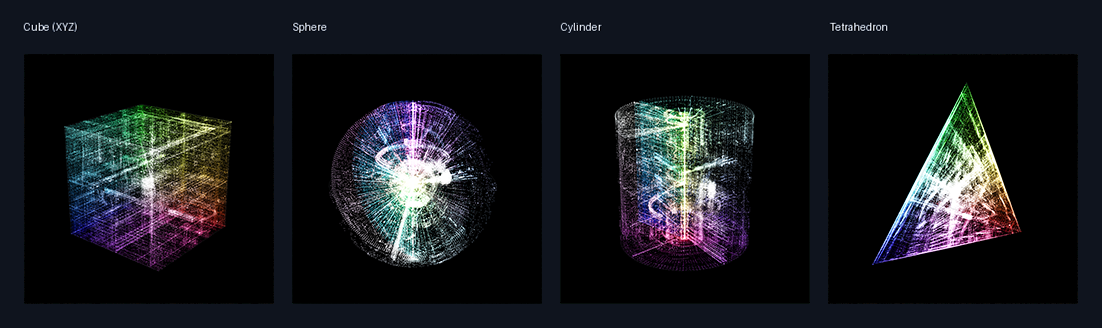
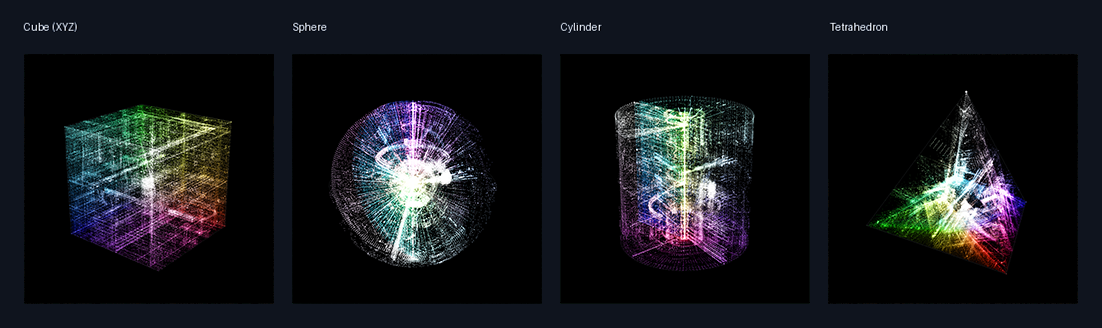
Render: rework tetrahedron rendering
Fix the centroid and make it symmetrical.

Changed region(s): [[0.7713, 0.2744, 0.9564, 0.8232]]

diff --git a/tests/cube_render_regression_tests.cpp b/tests/cube_render_regression_tests.cpp
@@ -1,10 +1,13 @@
 #include "cantordust/cube.h"
 #include "math/cube_lighting.h"
+#include "math/cube.h"
 
 #ifdef NDEBUG
     #undef NDEBUG
 #endif
 #include <cassert>
+#include <array>
+#include <cmath>
 #include <cstdint>
 #include <iostream>
 #include <vector>
@@ -90,8 +93,92 @@ static void Tests_ScratchFrameEquivalence()
     assert( reusedDepth.empty() );
 }
 
+static void Tests_CenteredRegularTetrahedron()
+{
+    constexpr float tolerance = 0.00002f;
+
+    // The origin is the inside center of the cloud, not a corner or base.
+    float x = 0.0f, y = 0.0f, z = 0.0f;
+    Math_CubeMapTetrahedron( x, y, z );
+    assert( x == 0.0f && y == 0.0f && z == 0.0f );
+
+    const auto& vertices = Math_CubeTetrahedronVertices();
+    const std::array< std::array< float, 3 >, 4 > cubeCorners = {{
+        {{ 1.0f, 1.0f, 1.0f }}, {{ 1.0f, -1.0f, -1.0f }},
+        {{ -1.0f, 1.0f, -1.0f }}, {{ -1.0f, -1.0f, 1.0f }}
+    }};
+
+    // Shared vertices must match the actual byte-cloud mapping.
+    for ( std::size_t i = 0; i < vertices.size(); ++i )
+    {
+        auto corner = cubeCorners[ i ];
+        Math_CubeMapTetrahedron( corner[ 0 ], corner[ 1 ], corner[ 2 ] );
+        for ( std::size_t axis = 0; axis < 3; ++axis )
+            assert( std::abs( corner[ axis ] - vertices[ i ][ axis ] ) < tolerance );
+    }
+
+    // Exactly one upright apex and three coplanar base vertices.
+    assert( std::abs( vertices[ 0 ][ 0 ] ) < tolerance );
+    assert( std::abs( vertices[ 0 ][ 1 ] - 1.0f ) < tolerance );
+    assert( std::abs( vertices[ 0 ][ 2 ] ) < tolerance );
+
+    for ( std::size_t i = 1; i < vertices.size(); ++i )
+        assert( std::abs( vertices[ i ][ 1 ] + 1.0f / 3.0f ) < tolerance );
+
+    for ( std::size_t axis = 0; axis < 3; ++axis )
+    {
+        float centroid = 0.0f;
+        for ( const auto& vertex : vertices )
+            centroid += vertex[ axis ];
+        assert( std::abs( centroid ) < tolerance );
+    }
+
+    constexpr float expectedEdgeSquared = 8.0f / 3.0f;
+    for ( std::size_t a = 0; a < vertices.size(); ++a )
+        for ( std::size_t b = a + 1; b < vertices.size(); ++b )
+        {
+            float edgeSquared = 0.0f;
+            for ( std::size_t axis = 0; axis < 3; ++axis )
+            {
+                const float delta = vertices[ a ][ axis ] - vertices[ b ][ axis ];
+                edgeSquared += delta * delta;
+            }
+            assert( std::abs( edgeSquared - expectedEdgeSquared ) < tolerance );
+        }
+
+    // Test the entire mapped volume, not just its boundary vertices.
+    // A regular tetrahedron with unit circumradius satisfies these planes.
+    for ( int ix = -8; ix <= 8; ++ix )
+        for ( int iy = -8; iy <= 8; ++iy )
+            for ( int iz = -8; iz <= 8; ++iz )
+            {
+                float px = ix / 8.0f;
+                float py = iy / 8.0f;
+                float pz = iz / 8.0f;
+                Math_CubeMapTetrahedron( px, py, pz );
+
+                for ( const auto& vertex : vertices )
+                {
+                    const float dot = px * vertex[ 0 ] +
+                        py * vertex[ 1 ] + pz * vertex[ 2 ];
+                    assert( dot >= -1.0f / 3.0f - tolerance );
+                }
+            }
+
+    // A cloud point at the origin must remain at the viewport center.
+    CubeCloud_s centered;
+    centered.points.push_back( { 0.0f, 0.0f, 0.0f,
+        14u, 177u, 0xFFE2B58Fu, 0x32u } );
+    CubeRenderOptions_s options;
+    options.geometry = CCG_TETRAHEDRON;
+    const Image_s frame = Cube_Render( centered, {},
+        240, 220, CDP_REFERENCE, options );
+    assert( frame.SourceAt( 120, 110 ) == 177u );
+}
+
 int main()
 {
+    Tests_CenteredRegularTetrahedron();
     Tests_MathAxisColors();
     Tests_ScratchFrameEquivalence();
     std::cout << "Cube renderer equivalence tests passed.\n";

diff --git a/tests/universe_tests.cpp b/tests/universe_tests.cpp
@@ -1586,6 +1586,56 @@ static void Tests_OrganicAdaptiveLayout()
     }
 }
 
+static void Tests_RegularGlobalTetrahedron()
+{
+    const auto& vertices = Math_CubeTetrahedronVertices();
+    constexpr float tolerance = 0.00002f;
+    constexpr float edgeSquared = 8.0f / 3.0f;
+
+    // Globals share the upright, unit-radius tetrahedron used by Byte Cloud.
+    for ( std::size_t axis = 0; axis < 3; ++axis )
+    {
+        float center = 0.0f;
+        for ( const auto& vertex : vertices )
+            center += vertex[ axis ];
+        assert( std::abs( center ) < tolerance );
+    }
+
+    for ( std::size_t a = 0; a < vertices.size(); ++a )
+    {
+        for ( std::size_t b = a + 1; b < vertices.size(); ++b )
+        {
+            float distanceSquared = 0.0f;
+            for ( std::size_t axis = 0; axis < 3; ++axis )
+            {
+                const float d = vertices[ a ][ axis ] - vertices[ b ][ axis ];
+                distanceSquared += d * d;
+            }
+            assert( std::abs( distanceSquared - edgeSquared ) < tolerance );
+        }
+    }
+
+    // Randomized vertex orientations must still project around the global's
+    // location and leave a selectable center at ordinary camera angles.
+    UniverseGraph_s graph;
+    graph.nodes = { { 0xA000u, "global", 6u, 0u, 0u,
+        0.0f, 0.0f, 0.0f, UNK_GLOBAL } };
+    UniverseRenderStyle_s style;
+    style.antiAliasing = false;
+    Image_s image;
+    CubeCamera_s camera;
+
+    for ( const auto angles : { std::array< float, 2 >{ 0.0f, 0.0f },
+                               std::array< float, 2 >{ 0.68f, 0.38f } } )
+    {
+        camera.yaw = angles[ 0 ];
+        camera.pitch = angles[ 1 ];
+        Universe_RenderInto( image, graph, camera, CANTORDUST_NO_SOURCE,
+            false, 640u, 480u, CDP_GHIDRA_VIOLET, {}, style );
+        assert( image.SourceAt( 320u, 240u ) == 0u );
+    }
+}
+
 static void Tests_TetrahedronExtremeSpacing()
 {
     // At very high spacing, an outlying global can approach or pass the
@@ -1783,6 +1833,7 @@ int main()
     Tests_ClippedVisibleConnections();
     Tests_PerspectiveNodeSizeAndAntiAliasing();
     Tests_TetrahedronExtremeSpacing();
+    Tests_RegularGlobalTetrahedron();
     Tests_ProminentCameraFraming();
     Tests_OrganicAdaptiveLayout();
     Tests_RelativeNodeSize();

diff --git a/src/math/cube.h b/src/math/cube.h
@@ -29,6 +29,58 @@ CubeProjection_s Math_CubeProject(
     f32 x, f32 y, f32 z,
     const CubeTransform_s& transform );
 
+// Map the centered byte cube into a regular, upright tetrahedron. The
+// tetrahedron's four vertices have equal radii and its centroid is zero.
+// Radial mapping keeps all points inside the tetrahedron and leaves the
+// source-space origin at the center.
+inline void Math_CubeMapTetrahedron( f32& x, f32& y, f32& z )
+{
+    const f32 extent = std::max( { std::abs( x ), std::abs( y ),
+        std::abs( z ) } );
+
+    if ( extent == 0.0f )
+        return;
+
+    // Planes of the regular tetrahedron with corners (+,+,+),
+    // (+,-,-), (-,+,-), (-,-,+): each inward face is n.p >= -1.
+    const f32 face = std::max( { -x - y - z, -x + y + z,
+        x - y + z, x + y - z } );
+    const f32 scale = extent / face;
+    const f32 a = x * scale;
+    const f32 b = y * scale;
+    const f32 c = z * scale;
+
+    // Rigidly rotate, then scale to unit circumradius. The (+,+,+)
+    // vertex becomes the apex (0,1,0); the other three form the base.
+    x = ( a - b ) * 0.4082482904638630f; // 1/sqrt(6)
+    y = ( a + b + c ) * ( 1.0f / 3.0f );
+    z = ( a + b - 2.0f * c ) * 0.2357022603955158f; // 1/sqrt(18)
+}
+
+// Shared guide vertices for both 3D Byte Cloud and Function Universe globals.
+// Derive the corners from the same mapping as the cloud points so the shape,
+// centroid, and edge lengths cannot diverge between renderers.
+inline const std::array< std::array< f32, 3 >, 4 >&
+Math_CubeTetrahedronVertices()
+{
+    static const std::array< std::array< f32, 3 >, 4 > vertices = []() {
+        std::array< std::array< f32, 3 >, 4 > result = {{
+            {{ 1.0f, 1.0f, 1.0f }},
+            {{ 1.0f, -1.0f, -1.0f }},
+            {{ -1.0f, 1.0f, -1.0f }},
+            {{ -1.0f, -1.0f, 1.0f }}
+        }};
+
+        for ( auto& vertex : result )
+            Math_CubeMapTetrahedron( vertex[ 0 ], vertex[ 1 ], vertex[ 2 ] );
+
+        return result;
+    }();
+
+    return vertices;
+}
+
+
 } // namespace cantordust
 
 #endif // MATH_CUBE_H

diff --git a/src/render/universe_raster.cpp b/src/render/universe_raster.cpp
@@ -687,13 +687,9 @@ static void Universe_DrawGlobal( Image_s& image, UniverseRaster_s& raster,
         return;
     }
 
-    // A tetrahedron has four 3D vertices and four triangular faces.
-    static const UniversePosition_s vertices[ 4 ] = {
-        { 0.0f, 1.2f, 0.0f },
-        { -0.95f, -0.70f, -0.65f },
-        { 0.95f, -0.70f, -0.65f },
-        { 0.0f, -0.70f, 1.05f }
-    };
+    // Share the regular, origin-centered tetrahedron with the byte cloud.
+    // Each global retains its existing independently randomized rotation.
+    const auto& vertices = Math_CubeTetrahedronVertices();
     static const int faces[ 4 ][ 3 ] = {
         { 0, 1, 2 }, { 0, 2, 3 }, { 0, 3, 1 }, { 1, 3, 2 }
     };
@@ -725,10 +721,10 @@ static void Universe_DrawGlobal( Image_s& image, UniverseRaster_s& raster,
 
     for ( usize i = 0; i < projected.size(); ++i )
     {
-        const UniversePosition_s& vertex = vertices[ i ];
-        const f32 x1 = vertex.x;
-        const f32 y1 = vertex.y * cx - vertex.z * sx;
-        const f32 z1 = vertex.y * sx + vertex.z * cx;
+        const auto& vertex = vertices[ i ];
+        const f32 x1 = vertex[ 0 ];
+        const f32 y1 = vertex[ 1 ] * cx - vertex[ 2 ] * sx;
+        const f32 z1 = vertex[ 1 ] * sx + vertex[ 2 ] * cx;
         const f32 x2 = x1 * cy + z1 * sy;
         const f32 z2 = -x1 * sy + z1 * cy;
         const f32 x3 = x2 * cz - y1 * sz;

diff --git a/src/render/cube.cpp b/src/render/cube.cpp
@@ -342,17 +342,7 @@ static void Cube_MapGeometry( const CubePoint_s& point,
     }
     else if ( mode == CCG_TETRAHEDRON )
     {
-        f32 a = ( x + 1.0f ) * 0.5f;
-        f32 b = ( y + 1.0f ) * 0.5f;
-        f32 c = ( z + 1.0f ) * 0.5f;
-
-        const f32 total = std::max( 1.0f, a + b + c );
-        a /= total;
-        b /= total;
-        c /= total;
-        x = -1.0f + 2.0f * a + b + c;
-        y = -1.0f + 2.0f * b;
-        z = -1.0f + 2.0f * c;
+        Math_CubeMapTetrahedron( x, y, z );
     }
 }
 
@@ -551,9 +541,7 @@ void Cube_RenderInto( Image_s& image,
         }
         else if ( options.geometry == CCG_TETRAHEDRON )
         {
-            const f32 vertices[ 4 ][ 3 ] = {
-                { -1, -1, -1 }, { 1, -1, -1 }, { 0, 1, -1 }, { 0, -1, 1 }
-            };
+            const auto& vertices = Math_CubeTetrahedronVertices();
 
             for ( int a = 0; a < 4; ++a )
                 for ( int b = a + 1; b < 4; ++b )

diff --git a/src/render/render.cpp b/src/render/render.cpp
@@ -146,7 +146,8 @@ static void Render_Digraph(
     // At 256 pixels per side, every bucket is visited once. At higher
     // resolutions the same bucket is used repeatedly, so cache its exact
     // color once per frame instead of repeating the density logarithm.
-    if ( image.width == CANTORDUST_SIDE )
+    if ( image.width == CANTORDUST_SIDE &&
+         image.height == CANTORDUST_SIDE )
     {
         for ( usize pixel = 0; pixel < counts.size(); ++pixel )
         {
